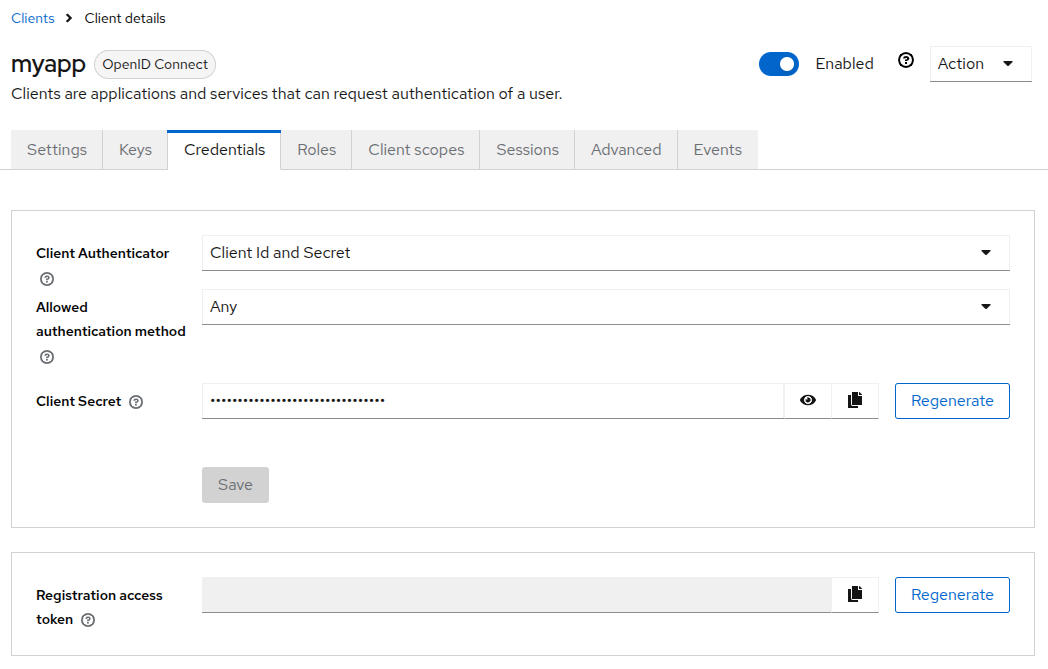
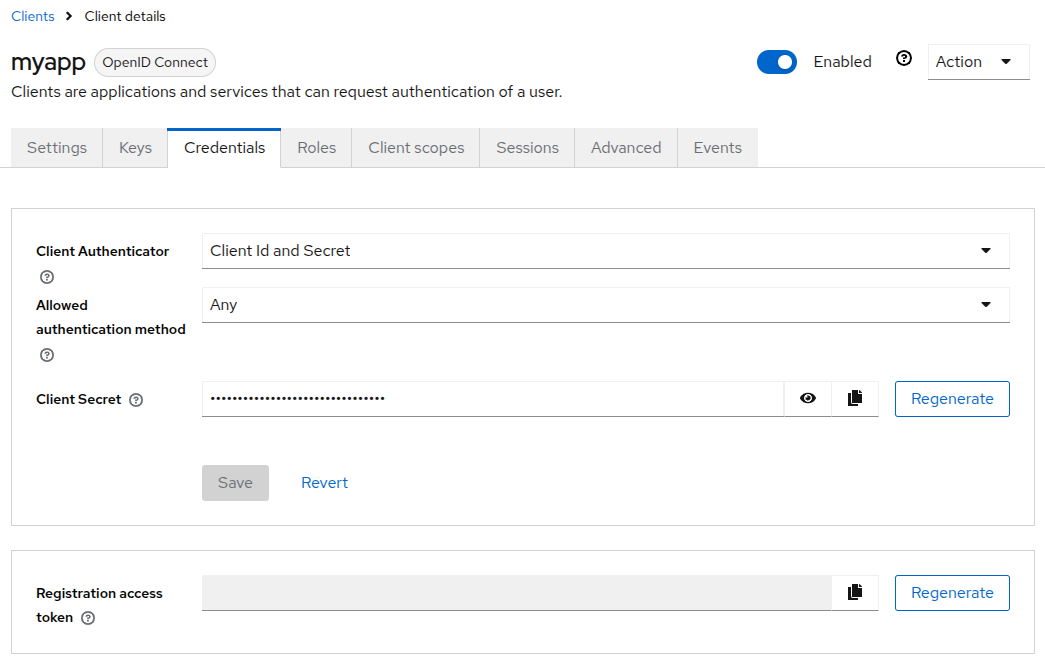
Add revert button to client credentials form

diff --git a/js/apps/admin-ui/src/clients/credentials/Credentials.tsx b/js/apps/admin-ui/src/clients/credentials/Credentials.tsx
@@ -60,6 +60,7 @@ export const Credentials = ({ client, save, refresh }: CredentialsProps) => {
     control,
     formState: { isDirty },
     handleSubmit,
+    reset,
   } = useFormContext<FormFields>();
 
   const clientAuthenticatorType = useWatch({
@@ -221,6 +222,9 @@ export const Credentials = ({ client, save, refresh }: CredentialsProps) => {
             <ActionGroup>
               <Button variant="primary" type="submit" isDisabled={!isDirty}>
                 {t("save")}
+              </Button>
+              <Button variant="link" onClick={() => reset()}>
+                {t("revert")}
               </Button>
             </ActionGroup>
           </CardBody>
